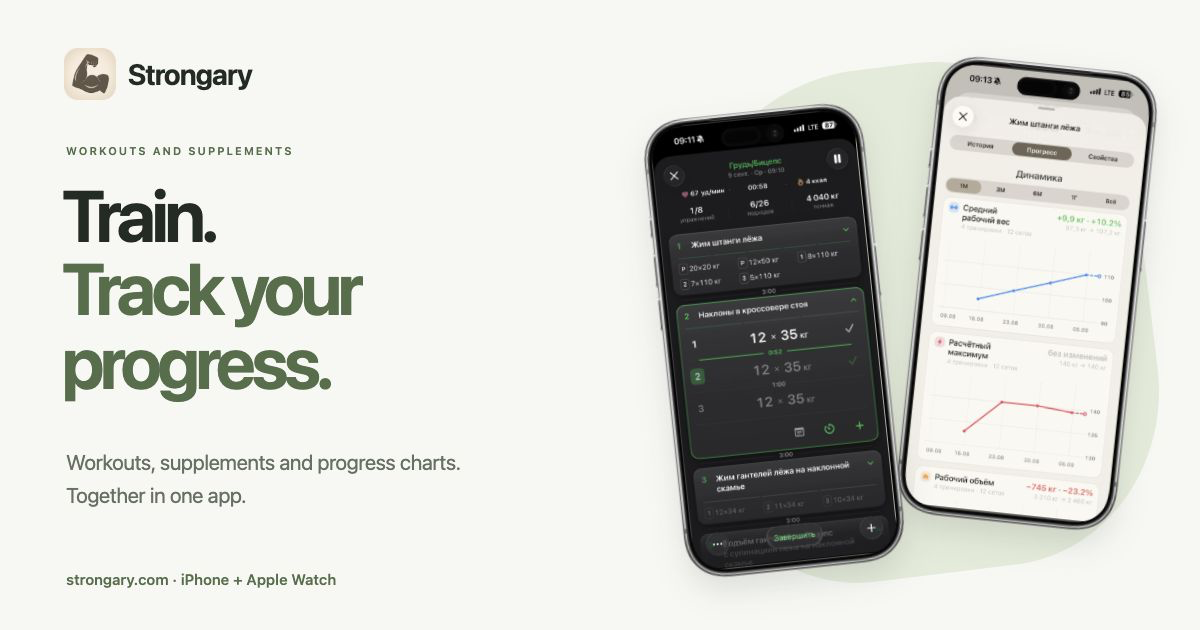
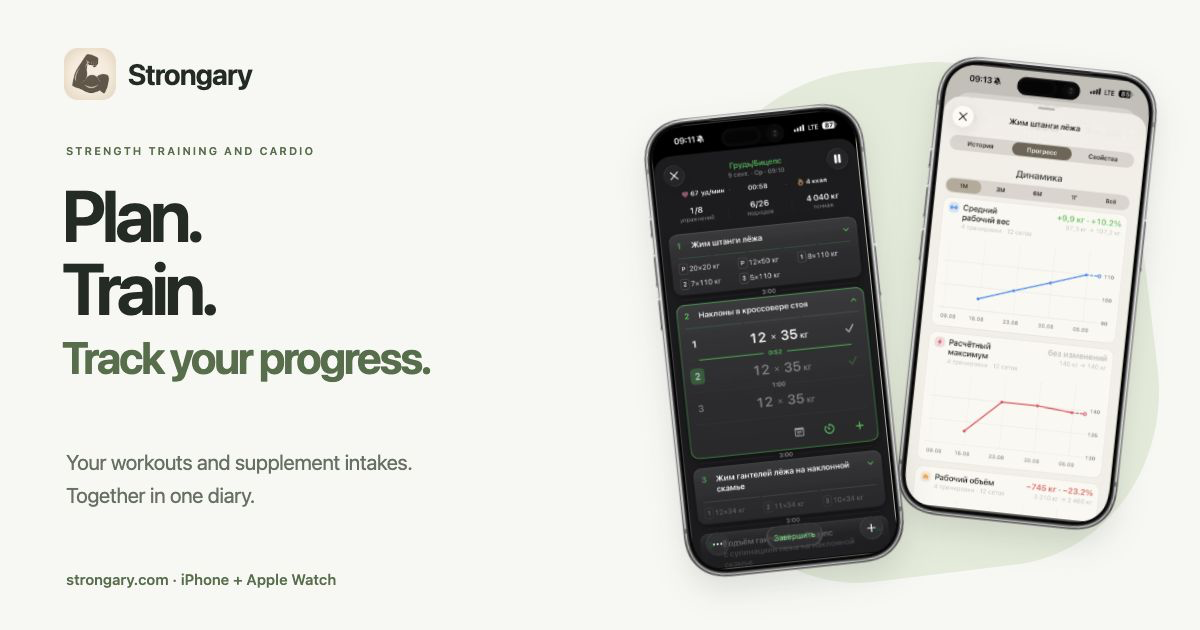
Refine Strongary hero around planning, training and progress

diff --git a/index.html b/index.html
@@ -4,7 +4,7 @@
 <meta charset="utf-8">
 <meta name="viewport" content="width=device-width, initial-scale=1, viewport-fit=cover">
 <title>Strongary — дневник тренировок и спортивного питания</title>
-<meta name="description" content="Дневник тренировок и спортивного питания для iPhone и Apple Watch. Записывай подходы, сравнивай результаты на графиках и планируй приёмы добавок.">
+<meta name="description" content="Strongary — дневник тренировок и приёмов спортивного питания для iPhone и Apple Watch. Своя программа, графики результатов и управление тренировкой с часов.">
 <meta name="theme-color" content="#f7f8f4">
 <link rel="canonical" href="https://strongary.com/">
 <link rel="alternate" hreflang="ru" href="https://strongary.com/">
@@ -14,7 +14,7 @@
 <meta property="og:locale" content="ru_RU">
 <meta property="og:url" content="https://strongary.com/">
 <meta property="og:title" content="Strongary — дневник тренировок и спортивного питания">
-<meta property="og:description" content="Тренировки и спортивное питание в одном приложении. Запись подходов, графики прогресса, напоминания о приёмах и управление тренировкой с Apple Watch.">
+<meta property="og:description" content="Планируй. Тренируйся. Отслеживай прогресс. Дневник тренировок и приёмов спортивного питания, графики результатов и управление тренировкой с Apple Watch.">
 <meta property="og:image" content="https://strongary.com/social-preview.png">
 <meta property="og:image:width" content="1200">
 <meta property="og:image:height" content="630">
@@ -22,10 +22,10 @@
 <link rel="icon" href="/favicon.ico" sizes="16x16 32x32 48x48">
 <link rel="icon" type="image/png" sizes="32x32" href="/favicon-32.png">
 <link rel="apple-touch-icon" href="/apple-touch-icon.png">
-<script src="/preferences.js?v=20261020-2"></script>
-<link rel="stylesheet" href="/styles.css?v=20261020-2">
-<script src="/site-config.js?v=20261020-2" defer></script>
-<script src="/site.js?v=20261020-2" defer></script>
+<script src="/preferences.js?v=20261020-3"></script>
+<link rel="stylesheet" href="/styles.css?v=20261020-3">
+<script src="/site-config.js?v=20261020-3" defer></script>
+<script src="/site.js?v=20261020-3" defer></script>
 <script src="/analytics.js" defer></script>
 </head><body><svg class="svg-library" xmlns="http://www.w3.org/2000/svg" aria-hidden="true">
 <symbol id="arrow" viewBox="0 0 24 24"><path d="M5 12h14m-6-6 6 6-6 6"/></symbol>
@@ -56,10 +56,10 @@
 <section class="hero" aria-labelledby="hero-title">
   <div class="hero-layout wrap">
     <div class="hero-copy">
-      <p class="eyebrow hero-entry">ТРЕНИРОВКИ И СПОРТИВНОЕ ПИТАНИЕ</p>
-      <h1 id="hero-title" class="hero-entry">Тренируйся.<br> <span>Следи за<br> прогрессом.</span></h1>
-      <p class="hero-description hero-entry">Веди дневник тренировок и приёмов спортивного питания. Сравнивай результаты на графиках и управляй тренировкой с Apple Watch.</p>
-      <div class="hero-actions hero-entry"><a class="button button-dark" href="#training">Возможности приложения <svg class="icon" aria-hidden="true"><use href="#down"/></svg></a><a class="text-link" href="#testflight">Как попробовать <svg class="icon" aria-hidden="true"><use href="#arrow"/></svg></a></div>
+      <p class="eyebrow hero-entry">СИЛОВЫЕ ТРЕНИРОВКИ И КАРДИО</p>
+      <h1 id="hero-title" class="hero-entry"><span>Планируй.</span> <span>Тренируйся.</span> <span class="hero-result">Отслеживай прогресс.</span></h1>
+      <div class="hero-description hero-entry"><p class="hero-lead">Strongary — дневник тренировок и приёмов спортивного питания.</p><p class="hero-detail">Составляй свою программу, сравнивай результаты на графиках и управляй тренировкой с Apple Watch.</p></div>
+      <div class="hero-actions hero-entry"><a class="button button-dark" href="#training">Возможности <svg class="icon" aria-hidden="true"><use href="#down"/></svg></a><a class="text-link" href="#testflight">Как попробовать <svg class="icon" aria-hidden="true"><use href="#arrow"/></svg></a></div>
       <p class="hero-availability hero-entry"><span class="status-dot" aria-hidden="true"></span><span data-release-status>Готовимся к запуску в TestFlight</span></p>
     </div>
     <div class="hero-stage" aria-label="Strongary: тренировка, графики прогресса и Apple Watch">

diff --git a/en/index.html b/en/index.html
@@ -4,7 +4,7 @@
 <meta charset="utf-8">
 <meta name="viewport" content="width=device-width, initial-scale=1, viewport-fit=cover">
 <title>Strongary — workout and supplement diary</title>
-<meta name="description" content="A workout and supplement diary for iPhone and Apple Watch. Log sets, compare results in charts and schedule your supplements.">
+<meta name="description" content="Strongary is a workout and supplement diary for iPhone and Apple Watch. Build your own program, compare results in charts and manage workouts from your watch.">
 <meta name="theme-color" content="#f7f8f4">
 <link rel="canonical" href="https://strongary.com/en/">
 <link rel="alternate" hreflang="ru" href="https://strongary.com/">
@@ -14,7 +14,7 @@
 <meta property="og:locale" content="en_US">
 <meta property="og:url" content="https://strongary.com/en/">
 <meta property="og:title" content="Strongary — workout and supplement diary">
-<meta property="og:description" content="Workouts and supplements in one app. Set logging, progress charts, intake reminders and workout controls on Apple Watch.">
+<meta property="og:description" content="Plan. Train. Track your progress. A workout and supplement diary with results charts and workout controls on Apple Watch.">
 <meta property="og:image" content="https://strongary.com/social-preview-en.png">
 <meta property="og:image:width" content="1200">
 <meta property="og:image:height" content="630">
@@ -22,10 +22,10 @@
 <link rel="icon" href="/favicon.ico" sizes="16x16 32x32 48x48">
 <link rel="icon" type="image/png" sizes="32x32" href="/favicon-32.png">
 <link rel="apple-touch-icon" href="/apple-touch-icon.png">
-<script src="/preferences.js?v=20261020-2"></script>
-<link rel="stylesheet" href="/styles.css?v=20261020-2">
-<script src="/site-config.js?v=20261020-2" defer></script>
-<script src="/site.js?v=20261020-2" defer></script>
+<script src="/preferences.js?v=20261020-3"></script>
+<link rel="stylesheet" href="/styles.css?v=20261020-3">
+<script src="/site-config.js?v=20261020-3" defer></script>
+<script src="/site.js?v=20261020-3" defer></script>
 <script src="/analytics.js" defer></script>
 </head><body><svg class="svg-library" xmlns="http://www.w3.org/2000/svg" aria-hidden="true">
 <symbol id="arrow" viewBox="0 0 24 24"><path d="M5 12h14m-6-6 6 6-6 6"/></symbol>
@@ -56,10 +56,10 @@
 <section class="hero" aria-labelledby="hero-title">
   <div class="hero-layout wrap">
     <div class="hero-copy">
-      <p class="eyebrow hero-entry">WORKOUTS AND SUPPLEMENTS</p>
-      <h1 id="hero-title" class="hero-entry">Train.<br> <span>Track your<br> progress.</span></h1>
-      <p class="hero-description hero-entry">Keep a diary of your workouts and supplement intakes. Compare results in charts and manage your workout from Apple Watch.</p>
-      <div class="hero-actions hero-entry"><a class="button button-dark" href="#training">Explore the features <svg class="icon" aria-hidden="true"><use href="#down"/></svg></a><a class="text-link" href="#testflight">How to try <svg class="icon" aria-hidden="true"><use href="#arrow"/></svg></a></div>
+      <p class="eyebrow hero-entry">STRENGTH TRAINING AND CARDIO</p>
+      <h1 id="hero-title" class="hero-entry"><span>Plan.</span> <span>Train.</span> <span class="hero-result">Track your progress.</span></h1>
+      <div class="hero-description hero-entry"><p class="hero-lead">Strongary is your diary for workouts and supplement intakes.</p><p class="hero-detail">Build your own program, compare results in charts and manage your workout from Apple Watch.</p></div>
+      <div class="hero-actions hero-entry"><a class="button button-dark" href="#training">Explore the app <svg class="icon" aria-hidden="true"><use href="#down"/></svg></a><a class="text-link" href="#testflight">How to try <svg class="icon" aria-hidden="true"><use href="#arrow"/></svg></a></div>
       <p class="hero-availability hero-entry"><span class="status-dot" aria-hidden="true"></span><span data-release-status>Getting ready for TestFlight</span></p>
     </div>
     <div class="hero-stage" aria-label="Strongary: a workout, progress charts and Apple Watch">

diff --git a/styles.css b/styles.css
@@ -105,8 +105,11 @@ h3 { font-weight: 600; }
 .hero-layout { display: grid; grid-template-columns: 1fr 1fr; gap: 38px; align-items: center; padding-block: 48px 58px; }
 .hero-copy { position: relative; z-index: 3; padding-block: 14px; }
 .hero h1 { font-size: clamp(64px, 6.4vw, 92px); font-weight: 650; letter-spacing: -.065em; line-height: .99; margin: 25px 0 28px; }
-.hero h1 span { color: var(--green); }
-.hero-description { font-size: 18px; line-height: 1.6; color: var(--muted); max-width: 440px; }
+.hero h1 > span { display: block; }
+.hero h1 .hero-result { color: var(--green); font-size: .62em; line-height: 1.15; letter-spacing: -.05em; margin-top: .16em; }
+.hero-description { font-size: 18px; line-height: 1.6; color: var(--muted); max-width: 470px; }
+.hero-lead { color: var(--ink); font-weight: 500; }
+.hero-detail { margin-top: 12px; font-size: 16px; line-height: 1.65; }
 .hero-actions { display: flex; gap: 25px; align-items: center; margin-top: 29px; flex-wrap: wrap; }
 .hero-availability { display: flex; align-items: center; gap: 8px; font-size: 11px; color: var(--muted); margin-top: 24px; }
 .hero-stage { position: relative; height: 620px; isolation: isolate; --hero-spread: 14px; --hero-lift: -14px; --hero-drop: 8px; }
@@ -301,6 +304,7 @@ h3 { font-weight: 600; }
   .hero-actions { gap: 12px 18px; }
   .hero-stage { height: 470px; }
   .hero-device-workout { top: 20px; }
+  .hero-device-progress { right: 3%; }
   .hero-watch { top: 260px; }
   .hero-backdrop { inset: 70px -15px 35px 0; }
   .benefits-nav { gap: 20px; }
@@ -339,7 +343,6 @@ h3 { font-weight: 600; }
   .hero-layout { display: flex; flex-direction: column; gap: 28px; padding-block: 42px 35px; }
   .hero-copy { text-align: center; width: 100%; padding-block: 0; }
   .hero h1 { font-size: clamp(60px, 10vw, 78px); line-height: 1.02; margin-block: 20px 24px; }
-  .hero h1 span br { display: none; }
   .hero-description { max-width: 440px; margin-inline: auto; }
   .hero-actions, .hero-availability { justify-content: center; }
   .hero-stage { width: 480px; max-width: 90%; height: 550px; margin-top: 10px; }
@@ -403,7 +406,6 @@ h3 { font-weight: 600; }
   .hero-layout { padding-top: 37px; gap: 28px; }
   .hero-copy > .eyebrow { font-size: 9px; }
   .hero h1 { font-size: clamp(48px, 12.4vw, 65px); letter-spacing: -.06em; }
-  .hero h1 span br { display: block; }
   .hero-description { font-size: 16px; max-width: 335px; }
   .hero-actions { margin-top: 23px; gap: 17px; }
   .button { font-size: 12px; padding: 13px 19px; min-height: 48px; gap: 15px; }
@@ -502,7 +504,9 @@ h3 { font-weight: 600; }
   .brand-copy strong { font-size: 18px; }
   .brand-copy small { font-size: 8px; }
   .hero h1 { font-size: 46px; }
+  .hero h1 .hero-result { font-size: .58em; }
   .hero-description { font-size: 15px; }
+  .hero-detail { font-size: 15px; }
   .hero-actions { gap: 12px; }
   .hero-actions .button { padding-inline: 15px; font-size: 11px; gap: 8px; }
   .hero-actions .text-link { font-size: 11px; }

diff --git a/404.html b/404.html
@@ -1,5 +1,5 @@
 <!doctype html>
-<html lang="ru"><head><meta charset="utf-8"><meta name="viewport" content="width=device-width, initial-scale=1, viewport-fit=cover"><meta name="robots" content="noindex"><title>Страница не найдена — Strongary</title><meta name="theme-color" content="#f7f8f4"><link rel="icon" href="/favicon.ico"><link rel="canonical" href="https://strongary.com/404.html"><link rel="alternate" hreflang="ru" href="https://strongary.com/404.html"><link rel="alternate" hreflang="en" href="https://strongary.com/en/404.html"><script src="/preferences.js?v=20261020-2"></script><link rel="stylesheet" href="/styles.css?v=20261020-2"><script src="/site.js?v=20261020-2" defer></script><script src="/analytics.js" defer></script></head><body>
+<html lang="ru"><head><meta charset="utf-8"><meta name="viewport" content="width=device-width, initial-scale=1, viewport-fit=cover"><meta name="robots" content="noindex"><title>Страница не найдена — Strongary</title><meta name="theme-color" content="#f7f8f4"><link rel="icon" href="/favicon.ico"><link rel="canonical" href="https://strongary.com/404.html"><link rel="alternate" hreflang="ru" href="https://strongary.com/404.html"><link rel="alternate" hreflang="en" href="https://strongary.com/en/404.html"><script src="/preferences.js?v=20261020-3"></script><link rel="stylesheet" href="/styles.css?v=20261020-3"><script src="/site.js?v=20261020-3" defer></script><script src="/analytics.js" defer></script></head><body>
 <svg class="svg-library" xmlns="http://www.w3.org/2000/svg" aria-hidden="true">
 <symbol id="arrow" viewBox="0 0 24 24"><path d="M5 12h14m-6-6 6 6-6 6"/></symbol>
 <symbol id="down" viewBox="0 0 24 24"><path d="M12 4v16m-6-6 6 6 6-6"/></symbol>

diff --git a/en/404.html b/en/404.html
@@ -1,5 +1,5 @@
 <!doctype html>
-<html lang="en"><head><meta charset="utf-8"><meta name="viewport" content="width=device-width, initial-scale=1, viewport-fit=cover"><meta name="robots" content="noindex"><title>Page not found — Strongary</title><meta name="theme-color" content="#f7f8f4"><link rel="icon" href="/favicon.ico"><link rel="canonical" href="https://strongary.com/en/404.html"><link rel="alternate" hreflang="ru" href="https://strongary.com/404.html"><link rel="alternate" hreflang="en" href="https://strongary.com/en/404.html"><script src="/preferences.js?v=20261020-2"></script><link rel="stylesheet" href="/styles.css?v=20261020-2"><script src="/site.js?v=20261020-2" defer></script><script src="/analytics.js" defer></script></head><body>
+<html lang="en"><head><meta charset="utf-8"><meta name="viewport" content="width=device-width, initial-scale=1, viewport-fit=cover"><meta name="robots" content="noindex"><title>Page not found — Strongary</title><meta name="theme-color" content="#f7f8f4"><link rel="icon" href="/favicon.ico"><link rel="canonical" href="https://strongary.com/en/404.html"><link rel="alternate" hreflang="ru" href="https://strongary.com/404.html"><link rel="alternate" hreflang="en" href="https://strongary.com/en/404.html"><script src="/preferences.js?v=20261020-3"></script><link rel="stylesheet" href="/styles.css?v=20261020-3"><script src="/site.js?v=20261020-3" defer></script><script src="/analytics.js" defer></script></head><body>
 <svg class="svg-library" xmlns="http://www.w3.org/2000/svg" aria-hidden="true">
 <symbol id="arrow" viewBox="0 0 24 24"><path d="M5 12h14m-6-6 6 6-6 6"/></symbol>
 <symbol id="down" viewBox="0 0 24 24"><path d="M12 4v16m-6-6 6 6 6-6"/></symbol>

diff --git a/privacy.html b/privacy.html
@@ -1,5 +1,5 @@
 <!doctype html>
-<html lang="ru"><head><meta charset="utf-8"><meta name="viewport" content="width=device-width, initial-scale=1, viewport-fit=cover"><title>Конфиденциальность — Strongary</title><meta name="theme-color" content="#f7f8f4"><link rel="icon" href="/favicon.ico"><link rel="canonical" href="https://strongary.com/privacy.html"><link rel="alternate" hreflang="ru" href="https://strongary.com/privacy.html"><link rel="alternate" hreflang="en" href="https://strongary.com/en/privacy.html"><script src="/preferences.js?v=20261020-2"></script><link rel="stylesheet" href="/styles.css?v=20261020-2"><script src="/site.js?v=20261020-2" defer></script><script src="/analytics.js" defer></script></head><body>
+<html lang="ru"><head><meta charset="utf-8"><meta name="viewport" content="width=device-width, initial-scale=1, viewport-fit=cover"><title>Конфиденциальность — Strongary</title><meta name="theme-color" content="#f7f8f4"><link rel="icon" href="/favicon.ico"><link rel="canonical" href="https://strongary.com/privacy.html"><link rel="alternate" hreflang="ru" href="https://strongary.com/privacy.html"><link rel="alternate" hreflang="en" href="https://strongary.com/en/privacy.html"><script src="/preferences.js?v=20261020-3"></script><link rel="stylesheet" href="/styles.css?v=20261020-3"><script src="/site.js?v=20261020-3" defer></script><script src="/analytics.js" defer></script></head><body>
 <svg class="svg-library" xmlns="http://www.w3.org/2000/svg" aria-hidden="true">
 <symbol id="arrow" viewBox="0 0 24 24"><path d="M5 12h14m-6-6 6 6-6 6"/></symbol>
 <symbol id="down" viewBox="0 0 24 24"><path d="M12 4v16m-6-6 6 6 6-6"/></symbol>

diff --git a/support.html b/support.html
@@ -1,5 +1,5 @@
 <!doctype html>
-<html lang="ru"><head><meta charset="utf-8"><meta name="viewport" content="width=device-width, initial-scale=1, viewport-fit=cover"><title>Поддержка — Strongary</title><meta name="theme-color" content="#f7f8f4"><link rel="icon" href="/favicon.ico"><link rel="canonical" href="https://strongary.com/support.html"><link rel="alternate" hreflang="ru" href="https://strongary.com/support.html"><link rel="alternate" hreflang="en" href="https://strongary.com/en/support.html"><script src="/preferences.js?v=20261020-2"></script><link rel="stylesheet" href="/styles.css?v=20261020-2"><script src="/site.js?v=20261020-2" defer></script><script src="/analytics.js" defer></script></head><body>
+<html lang="ru"><head><meta charset="utf-8"><meta name="viewport" content="width=device-width, initial-scale=1, viewport-fit=cover"><title>Поддержка — Strongary</title><meta name="theme-color" content="#f7f8f4"><link rel="icon" href="/favicon.ico"><link rel="canonical" href="https://strongary.com/support.html"><link rel="alternate" hreflang="ru" href="https://strongary.com/support.html"><link rel="alternate" hreflang="en" href="https://strongary.com/en/support.html"><script src="/preferences.js?v=20261020-3"></script><link rel="stylesheet" href="/styles.css?v=20261020-3"><script src="/site.js?v=20261020-3" defer></script><script src="/analytics.js" defer></script></head><body>
 <svg class="svg-library" xmlns="http://www.w3.org/2000/svg" aria-hidden="true">
 <symbol id="arrow" viewBox="0 0 24 24"><path d="M5 12h14m-6-6 6 6-6 6"/></symbol>
 <symbol id="down" viewBox="0 0 24 24"><path d="M12 4v16m-6-6 6 6 6-6"/></symbol>

diff --git a/en/privacy.html b/en/privacy.html
@@ -1,5 +1,5 @@
 <!doctype html>
-<html lang="en"><head><meta charset="utf-8"><meta name="viewport" content="width=device-width, initial-scale=1, viewport-fit=cover"><title>Privacy — Strongary</title><meta name="theme-color" content="#f7f8f4"><link rel="icon" href="/favicon.ico"><link rel="canonical" href="https://strongary.com/en/privacy.html"><link rel="alternate" hreflang="ru" href="https://strongary.com/privacy.html"><link rel="alternate" hreflang="en" href="https://strongary.com/en/privacy.html"><script src="/preferences.js?v=20261020-2"></script><link rel="stylesheet" href="/styles.css?v=20261020-2"><script src="/site.js?v=20261020-2" defer></script><script src="/analytics.js" defer></script></head><body>
+<html lang="en"><head><meta charset="utf-8"><meta name="viewport" content="width=device-width, initial-scale=1, viewport-fit=cover"><title>Privacy — Strongary</title><meta name="theme-color" content="#f7f8f4"><link rel="icon" href="/favicon.ico"><link rel="canonical" href="https://strongary.com/en/privacy.html"><link rel="alternate" hreflang="ru" href="https://strongary.com/privacy.html"><link rel="alternate" hreflang="en" href="https://strongary.com/en/privacy.html"><script src="/preferences.js?v=20261020-3"></script><link rel="stylesheet" href="/styles.css?v=20261020-3"><script src="/site.js?v=20261020-3" defer></script><script src="/analytics.js" defer></script></head><body>
 <svg class="svg-library" xmlns="http://www.w3.org/2000/svg" aria-hidden="true">
 <symbol id="arrow" viewBox="0 0 24 24"><path d="M5 12h14m-6-6 6 6-6 6"/></symbol>
 <symbol id="down" viewBox="0 0 24 24"><path d="M12 4v16m-6-6 6 6 6-6"/></symbol>

diff --git a/en/support.html b/en/support.html
@@ -1,5 +1,5 @@
 <!doctype html>
-<html lang="en"><head><meta charset="utf-8"><meta name="viewport" content="width=device-width, initial-scale=1, viewport-fit=cover"><title>Support — Strongary</title><meta name="theme-color" content="#f7f8f4"><link rel="icon" href="/favicon.ico"><link rel="canonical" href="https://strongary.com/en/support.html"><link rel="alternate" hreflang="ru" href="https://strongary.com/support.html"><link rel="alternate" hreflang="en" href="https://strongary.com/en/support.html"><script src="/preferences.js?v=20261020-2"></script><link rel="stylesheet" href="/styles.css?v=20261020-2"><script src="/site.js?v=20261020-2" defer></script><script src="/analytics.js" defer></script></head><body>
+<html lang="en"><head><meta charset="utf-8"><meta name="viewport" content="width=device-width, initial-scale=1, viewport-fit=cover"><title>Support — Strongary</title><meta name="theme-color" content="#f7f8f4"><link rel="icon" href="/favicon.ico"><link rel="canonical" href="https://strongary.com/en/support.html"><link rel="alternate" hreflang="ru" href="https://strongary.com/support.html"><link rel="alternate" hreflang="en" href="https://strongary.com/en/support.html"><script src="/preferences.js?v=20261020-3"></script><link rel="stylesheet" href="/styles.css?v=20261020-3"><script src="/site.js?v=20261020-3" defer></script><script src="/analytics.js" defer></script></head><body>
 <svg class="svg-library" xmlns="http://www.w3.org/2000/svg" aria-hidden="true">
 <symbol id="arrow" viewBox="0 0 24 24"><path d="M5 12h14m-6-6 6 6-6 6"/></symbol>
 <symbol id="down" viewBox="0 0 24 24"><path d="M12 4v16m-6-6 6 6 6-6"/></symbol>
